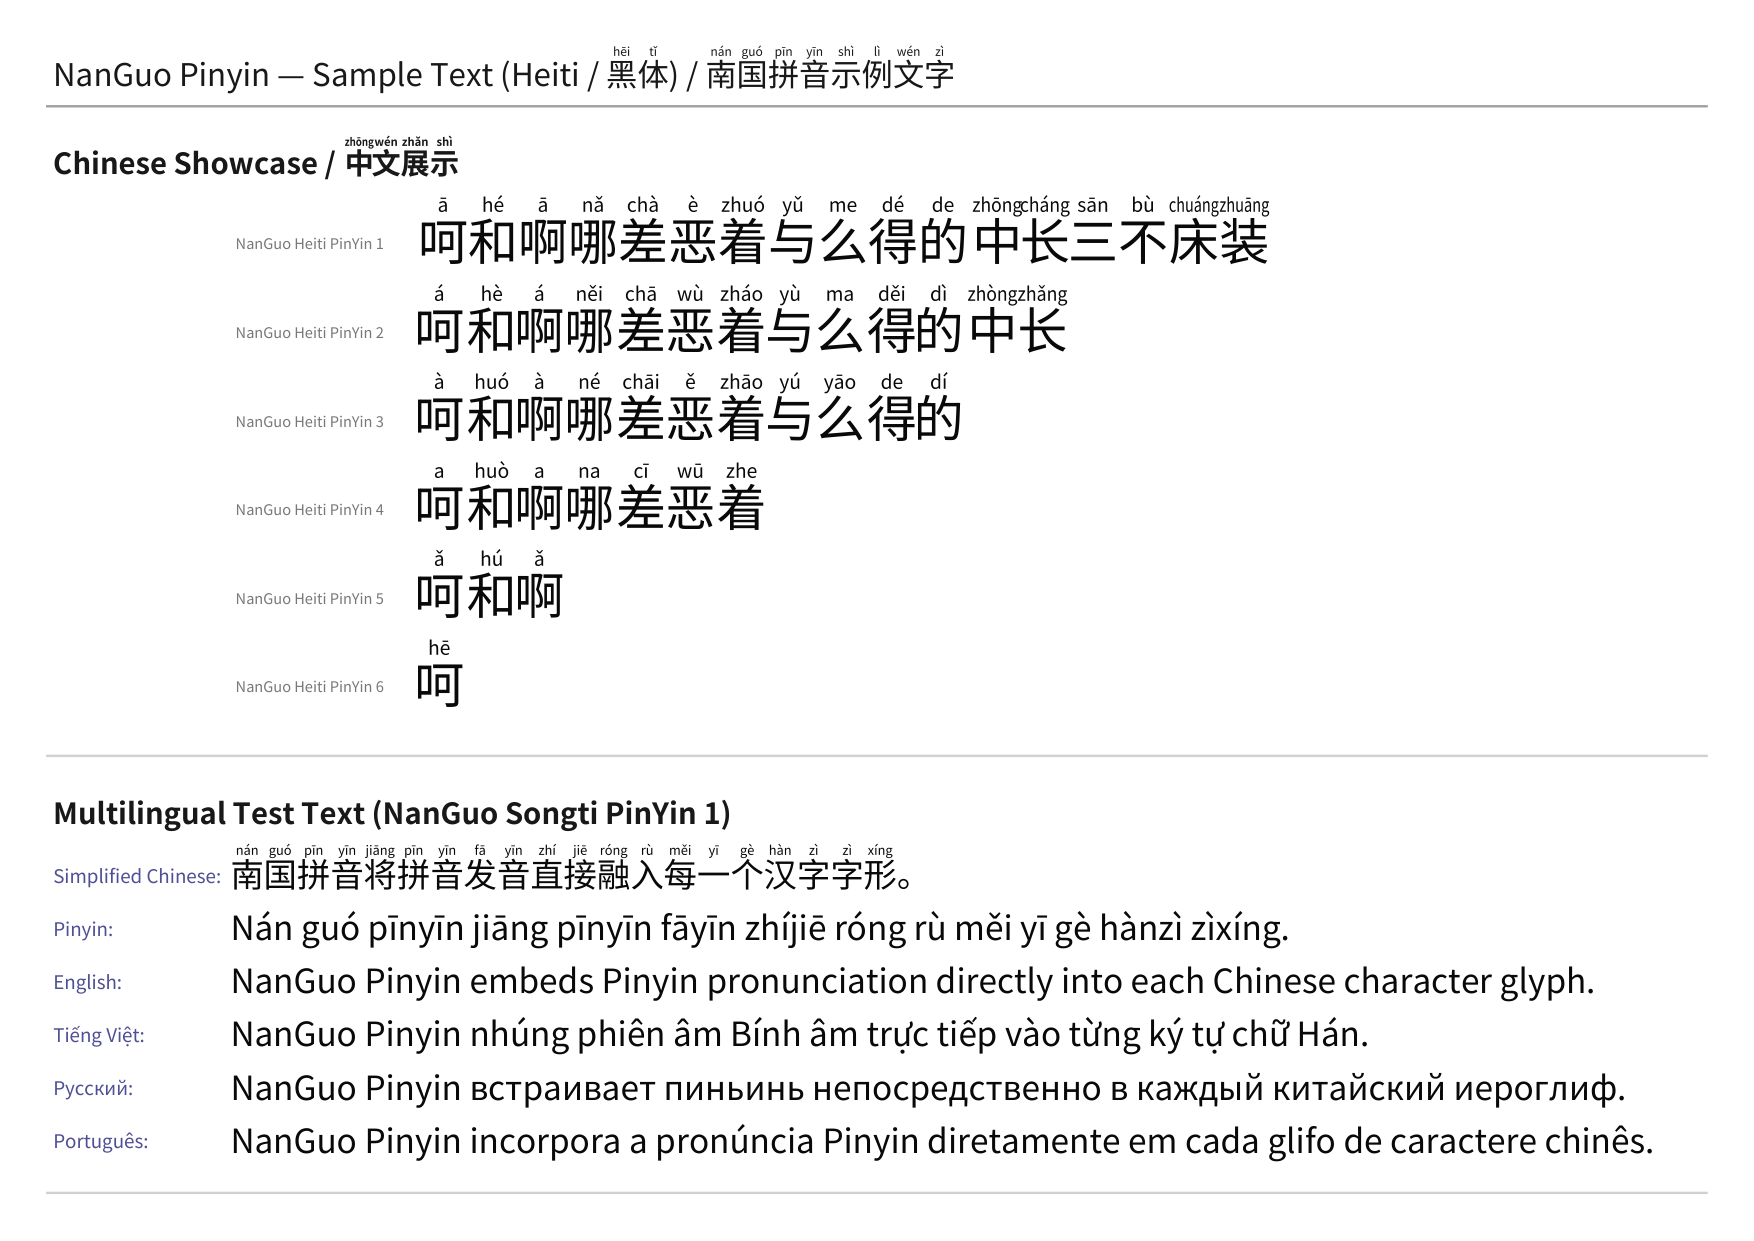
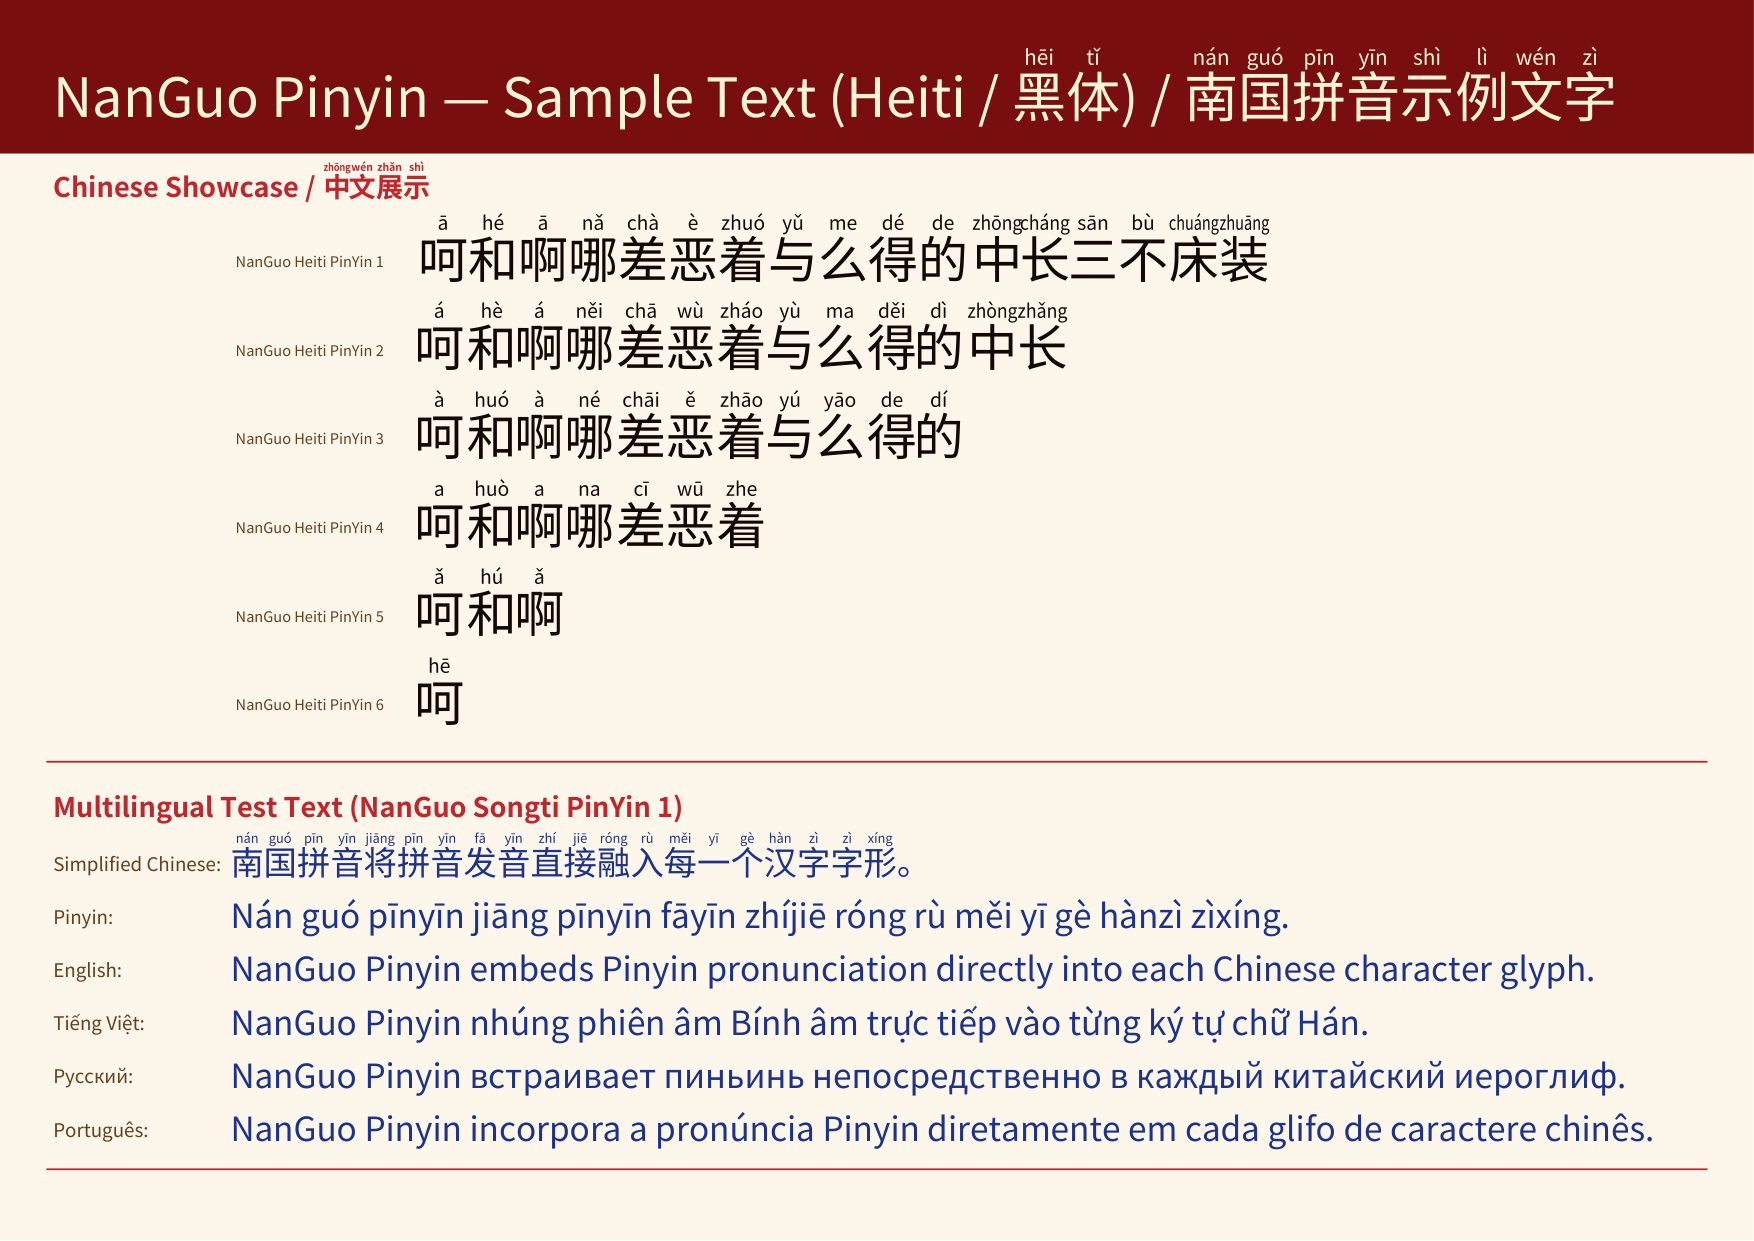
Changes color theme =>chinese traditional

Changed region(s): [[0.0, 0.0, 1.0, 0.5818], [0.0308, 0.6124, 0.9544, 0.9492]]

diff --git a/sources/scripts/build_pdf.py b/sources/scripts/build_pdf.py
@@ -23,9 +23,17 @@ FONTS_DIR = ROOT / "fonts"
 SAMPLE_MD = ROOT / "samples" / "sample_text.md"
 SAMPLES_OUT = ROOT / "samples" / "output"
 
-# Row height (mm) for Chinese rows rendered at 24pt — 1.6× spaced to fit on one page.
 CHINESE_ROW_H = 15
-LABEL_W = 58  # mm — font-name label column
+LABEL_W = 58
+
+# Traditional Chinese book color palette (matches build_poem_pdf.py)
+IVORY      = (253, 248, 235)
+VERMILION  = (193,  39,  45)
+DARK_RED   = (120,  15,  15)
+CREAM      = (253, 245, 215)
+INK        = ( 20,  10,   5)
+INDIGO     = ( 30,  50, 140)
+WARM_BROWN = (100,  65,  30)
 
 
 # ── font helpers ──────────────────────────────────────────────────────────────
@@ -124,23 +132,29 @@ def build(out_path: pathlib.Path, style: str) -> None:
         pdf.add_font(bold_alias, fname=str(bold_ttf))
         loaded.add(bold_alias)
 
+    # ── Page background — 宣纸 ivory ──────────────────────────────────────────
+    pdf.set_fill_color(*IVORY)
+    pdf.rect(0, 0, pdf.w, pdf.h, style="F")
+
+    # ── Title bar — dark red fill, cream text ─────────────────────────────────
     style_label = "黑体" if style == "Heiti" else "宋体"
-    pdf.set_font(default, size=15)
-    pdf.set_text_color(25, 25, 25)
-    pdf.cell(0, 10, f"NanGuo Pinyin — Sample Text ({style} / {style_label}) / 南国拼音示例文字",
-             new_x="LMARGIN", new_y="NEXT")
-    pdf.set_draw_color(160, 160, 160)
-    pdf.set_line_width(0.4)
-    pdf.line(pdf.l_margin, pdf.get_y(), pdf.w - pdf.r_margin, pdf.get_y())
-    pdf.ln(6)
+    title_text = f"NanGuo Pinyin — Sample Text ({style} / {style_label}) / 南国拼音示例文字"
+    title_h = 18
+    pdf.set_fill_color(*DARK_RED)
+    pdf.rect(0, 0, pdf.w, pdf.t_margin + title_h, style="F")
+    pdf.set_font(default, size=26)
+    pdf.set_text_color(*CREAM)
+    pdf.cell(0, title_h, title_text, new_x="LMARGIN", new_y="NEXT")
+    pdf.ln(2)
 
     for section in sections:
         font_size = section["font_size"]
 
-        pdf.set_font(bold_alias, size=14)
-        pdf.set_text_color(25, 25, 25)
+        # Section title — vermilion
+        pdf.set_font(bold_alias, size=13)
+        pdf.set_text_color(*VERMILION)
         pdf.cell(0, 8, section["title"], new_x="LMARGIN", new_y="NEXT")
-        pdf.ln(2)
+        pdf.ln(1)
 
         for item in section["items"]:
 
@@ -150,32 +164,32 @@ def build(out_path: pathlib.Path, style: str) -> None:
                 label = f"NanGuo {style} PinYin {variant}"
 
                 pdf.set_font(default, size=7)
-                pdf.set_text_color(120, 120, 120)
+                pdf.set_text_color(*WARM_BROWN)
                 pdf.cell(LABEL_W, CHINESE_ROW_H, label, align="R")
 
                 pdf.set_font(alias, size=font_size)
-                pdf.set_text_color(10, 10, 10)
+                pdf.set_text_color(*INK)
                 pdf.cell(0, CHINESE_ROW_H, "  " + item["text"],
                          new_x="LMARGIN", new_y="NEXT")
 
             elif item["type"] == "text":
                 row_h = round(font_size * 25.4 / 72 * 1.6, 1)
-                # Always use variant 1 of the current style for body text
                 text_alias = load("variant 1")
 
                 pdf.set_font(default, size=9)
-                pdf.set_text_color(80, 80, 150)
+                pdf.set_text_color(*WARM_BROWN)
                 pdf.cell(30, row_h, item["label"] + ":")
 
                 pdf.set_font(text_alias, size=font_size)
-                pdf.set_text_color(10, 10, 10)
+                pdf.set_text_color(*INDIGO)
                 pdf.cell(0, row_h, item["text"],
                          new_x="LMARGIN", new_y="NEXT")
 
-        pdf.ln(4)
-        pdf.set_draw_color(210, 210, 210)
+        pdf.ln(2)
+        pdf.set_draw_color(*VERMILION)
+        pdf.set_line_width(0.3)
         pdf.line(pdf.l_margin, pdf.get_y(), pdf.w - pdf.r_margin, pdf.get_y())
-        pdf.ln(6)
+        pdf.ln(4)
 
     pdf.output(str(out_path))
 

diff --git a/sources/scripts/build_poem_pdf.py b/sources/scripts/build_poem_pdf.py
@@ -92,7 +92,7 @@ def build(out_path: pathlib.Path) -> None:
     pdf.set_text_color(*WARM_BROWN)
     pdf.cell(0, 6, "王维 · 唐    Wang Wei · Tang Dynasty",
              align="C", new_x="LMARGIN", new_y="NEXT")
-    pdf.ln(5)
+    pdf.ln(24)
 
     # ── Column geometry ───────────────────────────────────────────────────────
     usable_w = pdf.w - pdf.l_margin - pdf.r_margin   # ≈ 267 mm
